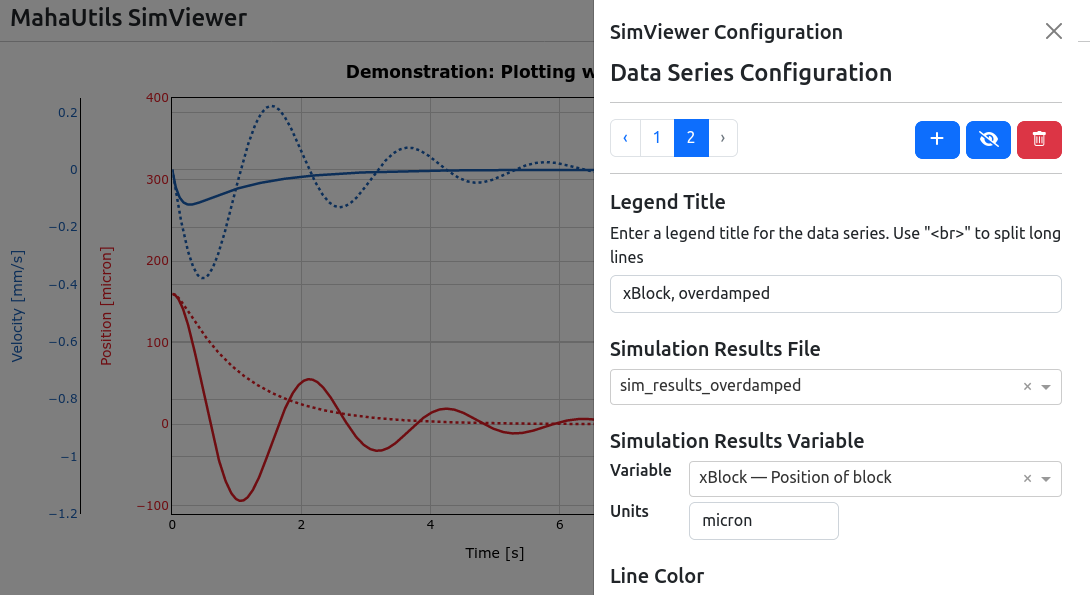
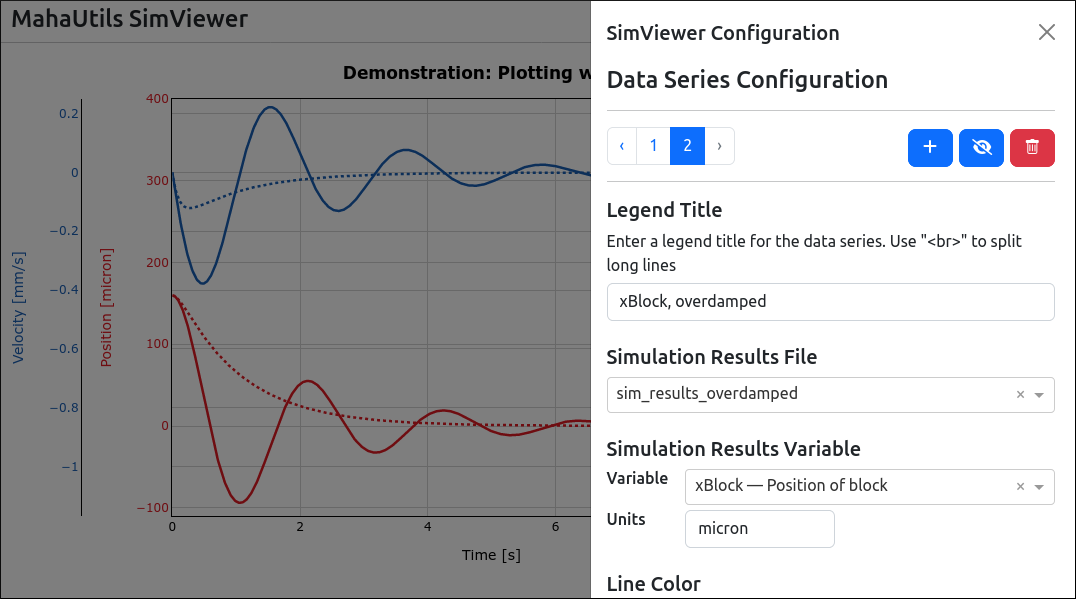
Fix incorrect line styles in SimViewer documentation figures

diff --git a/docs/source/usage/simviewer/simviewer.rst b/docs/source/usage/simviewer/simviewer.rst
@@ -234,7 +234,7 @@ Exporting Plot Configuration Settings
 Once you have configured your plot with all desired options, navigate to the
 "General" tab and click the "Export" button:
 
-.. figure:: ./images/general_config.png
+.. figure:: ./images/export_button.png
 
 This will save all plot configuration settings to a JSON file.
 
